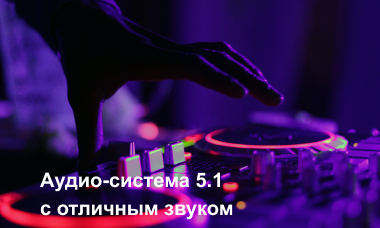
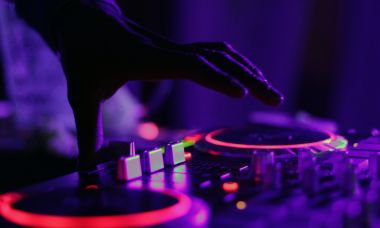
fixes

Changed region(s): [[0.0868, 0.8904, 0.6368, 0.9825], [0.0868, 0.7368, 0.5789, 0.8596]]

diff --git a/style.css b/style.css
@@ -71,14 +71,14 @@
 
 .main-banner {
     position: relative;
-    height: 823px;
+    height: 932px;
 }
 
 .main-banner:after {
     content: url(./img/vr-banner.png);
     position: absolute;
     right: 5px;
-    top: 64px;
+    top: 120px;
 }
 
 .main-banner__down {
@@ -194,9 +194,7 @@
 .block-halls__halls {
     display: flex;
     flex-wrap: wrap;
-    list-style: none;
-    margin: 0;
-    padding: 0;
+    gap: 20px;
 }
 
 .img-halls {
@@ -234,8 +232,6 @@
     background-size: cover;
     width: 580px;
     height: 349px;
-    margin-right: 20px;
-    margin-bottom: 20px;
 }
 
 .block-halls__item-starwars {
@@ -256,7 +252,6 @@
     background-size: cover;
     width: 580px;
     height: 349px;
-    margin-right: 20px;
 }
 
 .block-halls__item-neon {
@@ -273,8 +268,72 @@
     display: flex;
 }
 
+.rest__item-text1 {
+    width: 380px;
+    height: 228px;
+    background-image: url(img/1.png);
+    font-size: 20px;
+    font-weight: 700;
+    line-height: 28px;
+    text-align: left;
+    padding: 166px 40px 0 40px;
+
+}
+.rest__item-text2 {
+    width: 380px;
+    height: 228px;
+    background-image: url(img/2.png);
+    padding: 166px 40px 0 40px;
+    font-size: 20px;
+    font-weight: 700;
+    line-height: 28px;
+    text-align: left;
+}
+.rest__item-text3 {
+    width: 380px;
+    height: 228px;
+    background-image: url(img/3.png);
+    padding: 166px 40px 0 40px;
+    font-size: 20px;
+    font-weight: 700;
+    line-height: 28px;
+    text-align: left;
+}
+.rest__item-text4 {
+    width: 380px;
+    height: 228px;
+    background-image: url(img/4.png);
+    padding: 166px 40px 0 40px;
+    font-size: 20px;
+    font-weight: 700;
+    line-height: 28px;
+    text-align: left;
+}
+.rest__item-text5 {
+    width: 380px;
+    height: 228px;
+    background-image: url(img/5.png);
+    padding: 166px 40px 0 40px;
+    font-size: 20px;
+    font-weight: 700;
+    line-height: 28px;
+    text-align: left;
+}
+.rest__item-text6 {
+    width: 380px;
+    height: 228px;
+    background-image: url(img/6.png);
+    padding: 166px 40px 0 40px;
+    font-size: 20px;
+    font-weight: 700;
+    line-height: 28px;
+    text-align: left;
+}
+
 .about-us__block1 {
     margin-right: 80px;
+    background-image: url(img/photocollage.png);
+    width: 600px;
 }
 
 .about-us__block2 {

diff --git a/index.html b/index.html
@@ -112,12 +112,18 @@
                                     У нас есть все для классного отдыха с друзьями!
                                 </h3>
                                 <div class="rest__items-img">
-                                    <img class="rest__item-img" src="img/1.png" alt="1">
+                                    <p class="rest__item-text1">VR очки</p>
+                                    <p class="rest__item-text2">Аудио-система 5.1 с отличным звуком</p>
+                                    <p class="rest__item-text3">Караоке (4 микрофона)</p>
+                                    <p class="rest__item-text4">Настольные игры</p>
+                                    <p class="rest__item-text5">Кино сервисы Netflix, IVI, MegoGo, КиноПоиск, Okko</p>
+                                    <p class="rest__item-text6">РlаyStаtiоn 5</p>
+                                    <!-- <img class="rest__item-img" src="img/1.png" alt="1">
                                     <img class="rest__item-img" src="img/2.png" alt="2">
                                     <img class="rest__item-img" src="img/3.png" alt="3">
                                     <img class="rest__item-img" src="img/4.png" alt="4">
                                     <img class="rest__item-img" src="img/5.png" alt="5">
-                                    <img class="rest__item-img" src="img/6.png" alt="6">
+                                    <img class="rest__item-img" src="img/6.png" alt="6"> -->
                                 </div>
                             </section>
                         </div>
@@ -332,7 +338,7 @@
                         
                             <div class="about-us__wrapper-block">
                                 <div class="about-us__block1">
-                                    <img class="img" src="img/photocollage.png" alt="Фотоколлаж">
+                                    <!-- <img class="img" src="img/photocollage.png" alt="Фотоколлаж"> -->
                                 </div>
                             
                                 <div class="about-us__block2">

diff --git a/global.css b/global.css
@@ -93,8 +93,12 @@ html {
   Чтобы контент не прижимался к краям экрана
   */
   
+  section {
+    padding: 50px 0px;
+  }
+
   .container {
     max-width: 1240px;
-    padding: 50px 30px;
+    padding: 0 30px;
     margin: 0 auto;
   }
